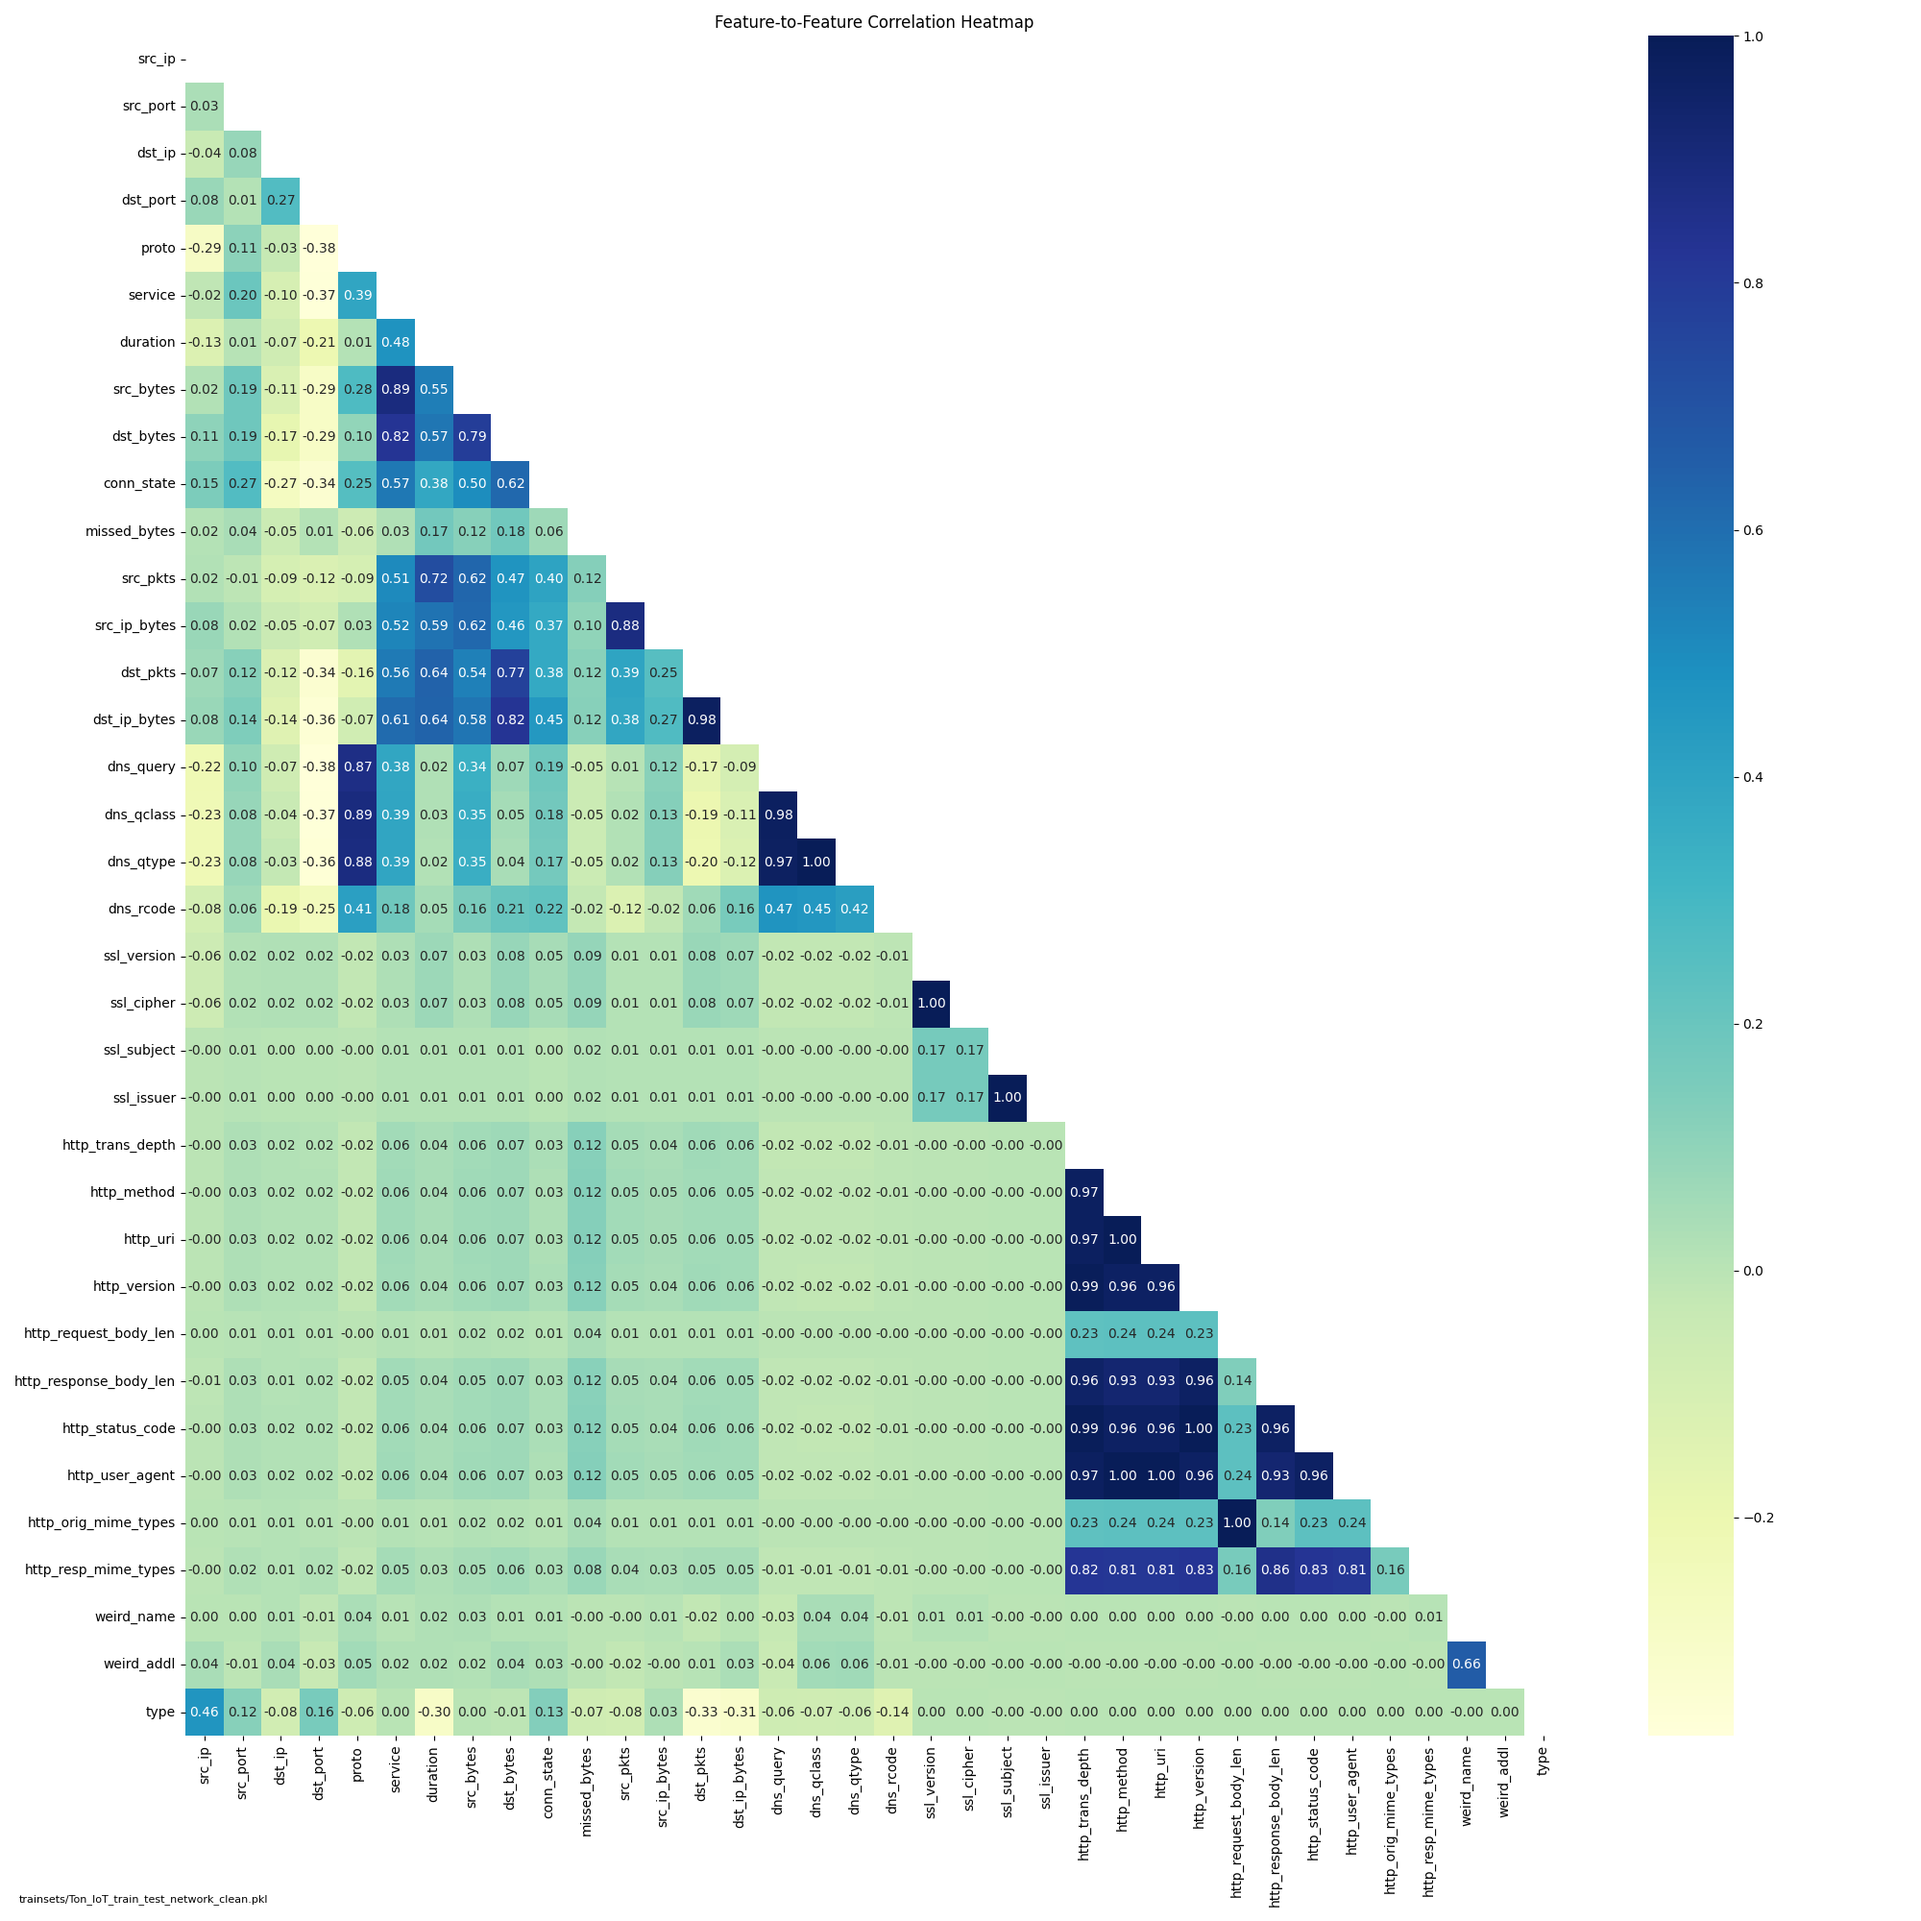
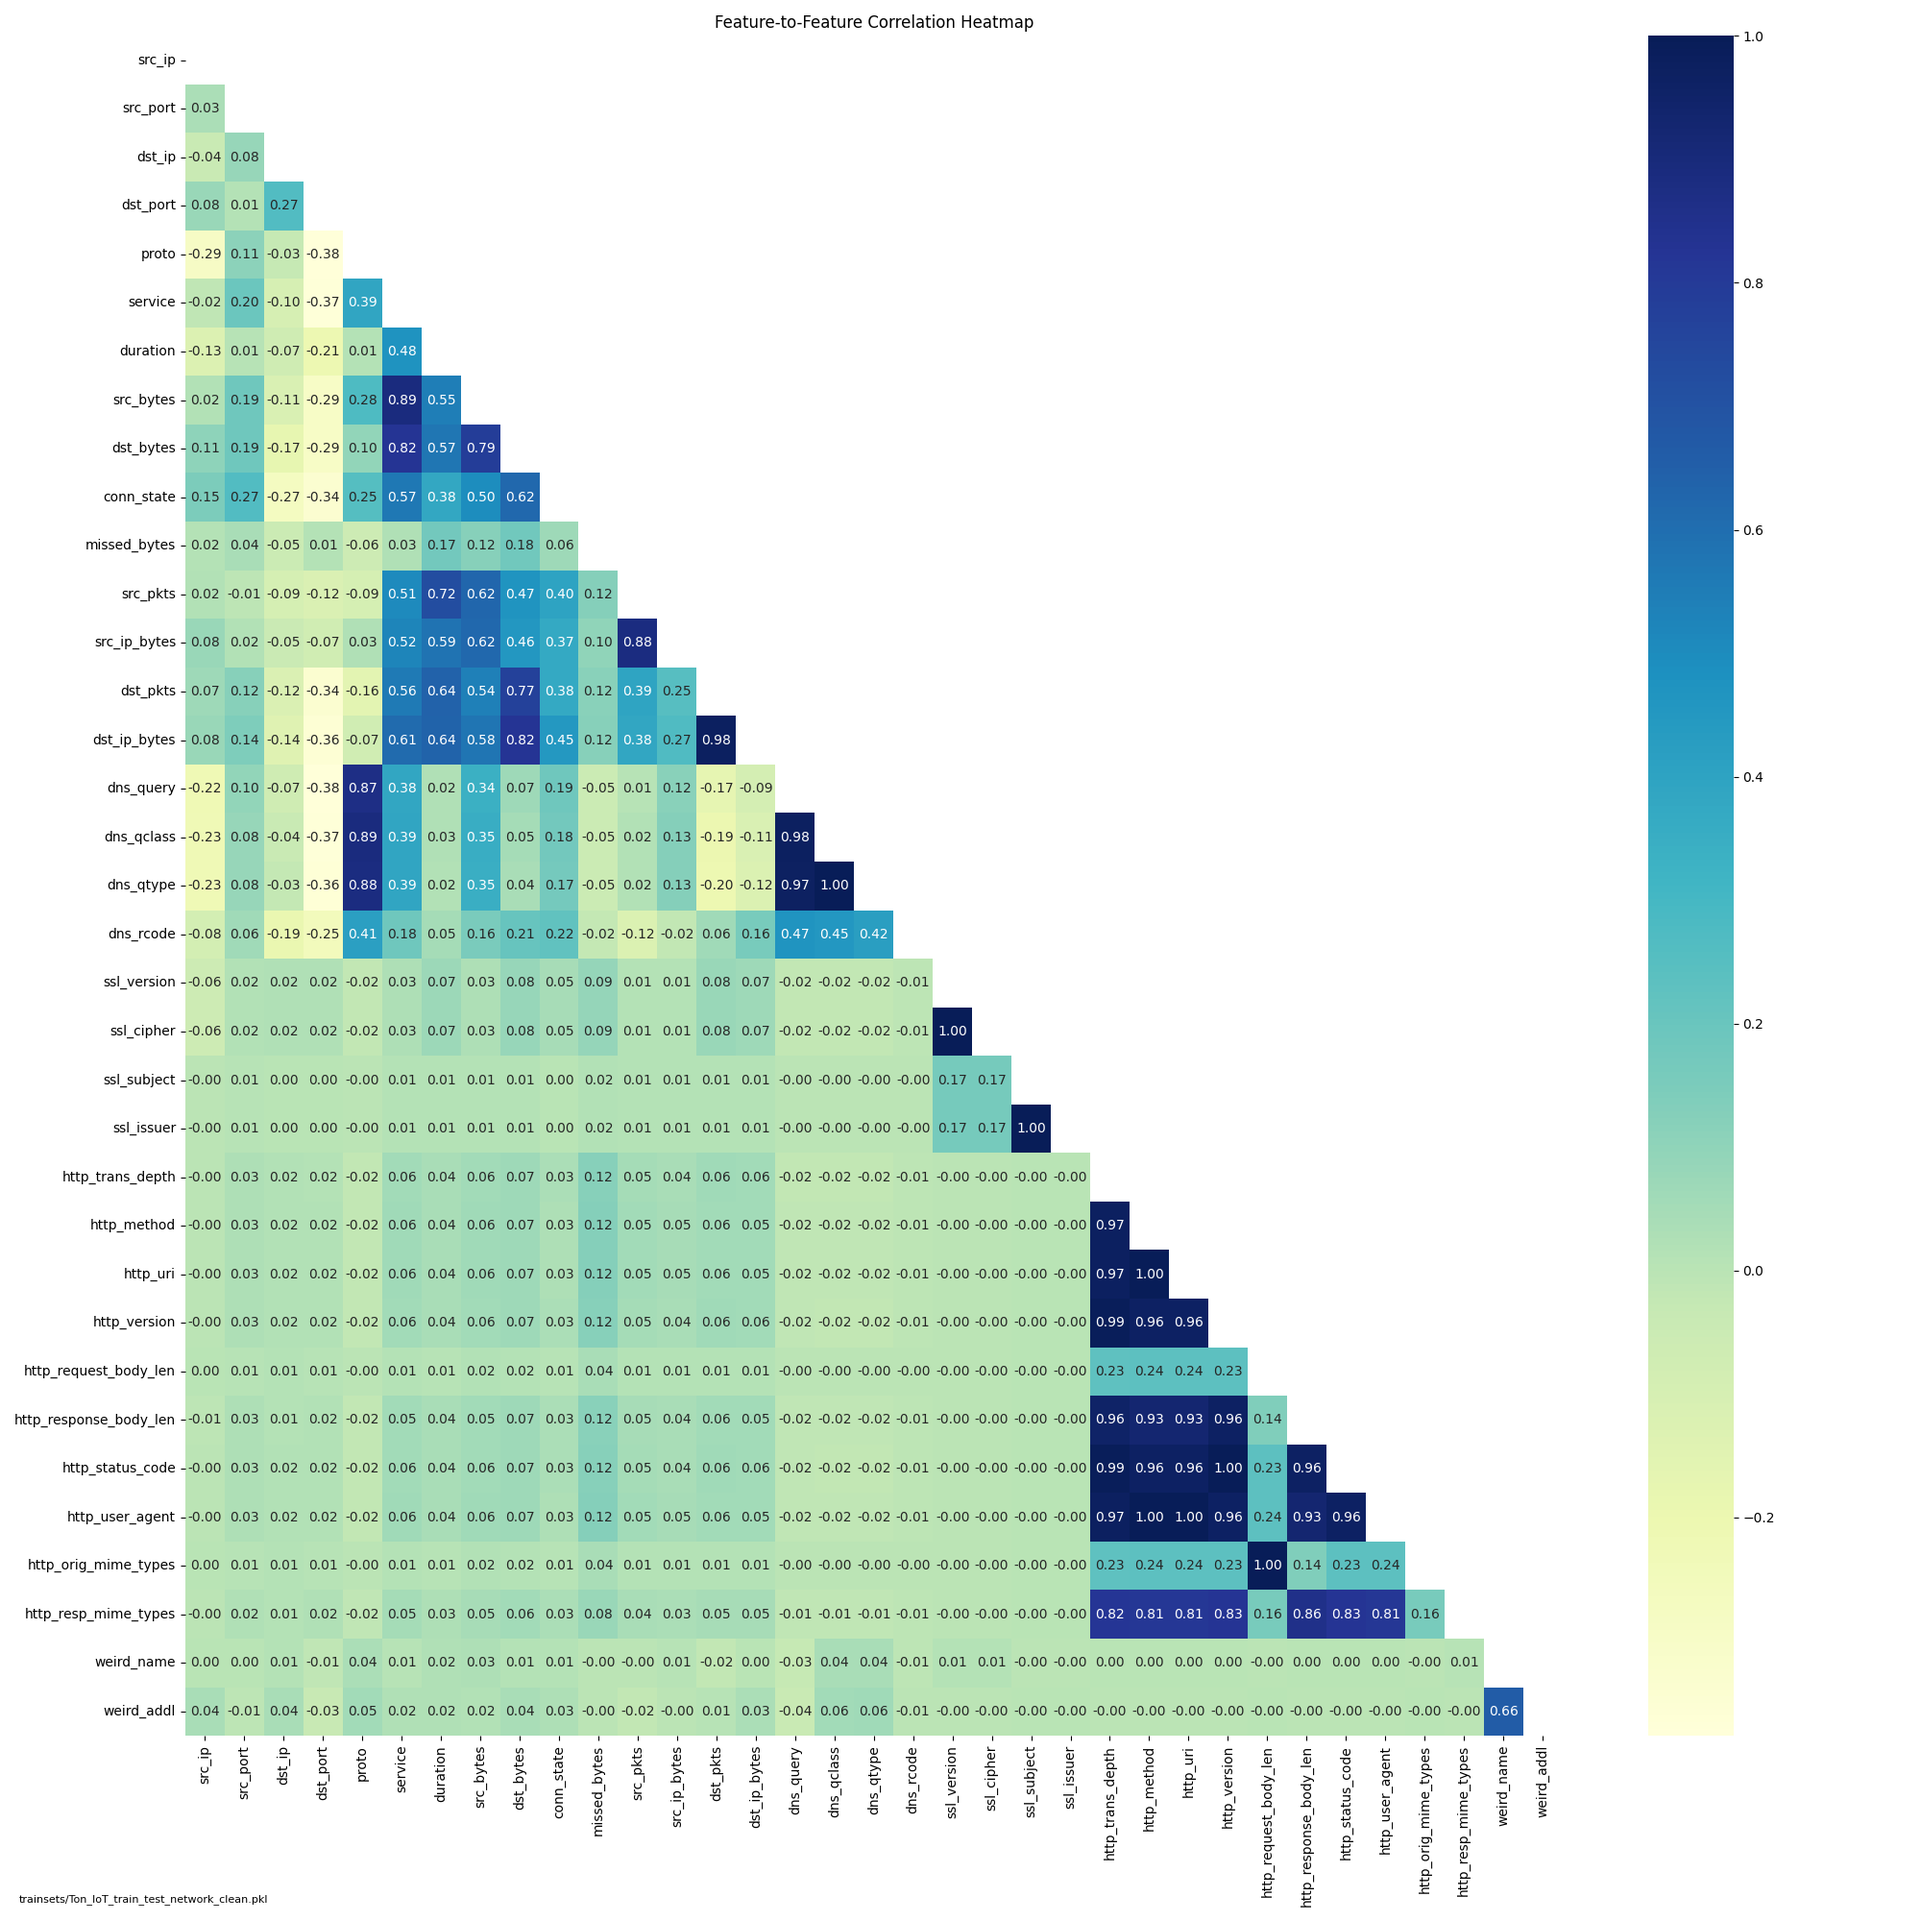
f2f stats and graphs

Changed region(s): [[0.0, 0.062, 0.806, 0.992], [0.062, 0.031, 0.093, 0.062]]

diff --git a/2-features-stats.py b/2-features-stats.py
@@ -29,12 +29,6 @@ args = parser.parse_args()
 
 df = pd.read_pickle(args.data_set)
 
-columns_to_drop = ['type', 'dst_ip_bytes', 'missed_bytes', 'duration', 'dst_pkts', 
-                   'dns_RA', 'dns_AA', 'dns_RD', 'ssl_subject', 'ssl_issuer', 'ssl_version',
-                   'ssl_cipher', 'ssl_resumed', 'ssl_established', 'http_trans_depth', 'http_method',
-                   'http_version', 'http_user_agent', 'http_orig_mime_types', 'http_resp_mime_types',
-                   'weird_name', 'weird_addl', 'weird_notice']
-
 #data_cleaned = df.drop(columns=columns_to_drop, axis=1)
 
 categorical_columns = df.select_dtypes(include=['object']).columns
@@ -104,7 +98,7 @@ else:
     plt.savefig("graphics/feature-sorted.png")
 
 
-f2f = df.drop(columns=bool_columns)
+f2f = df.drop(columns=bool_columns).drop(columns=["type"])
 
 correlation_matrix = f2f.corr(method='spearman')
 plt.figure(figsize=(20, 20))
